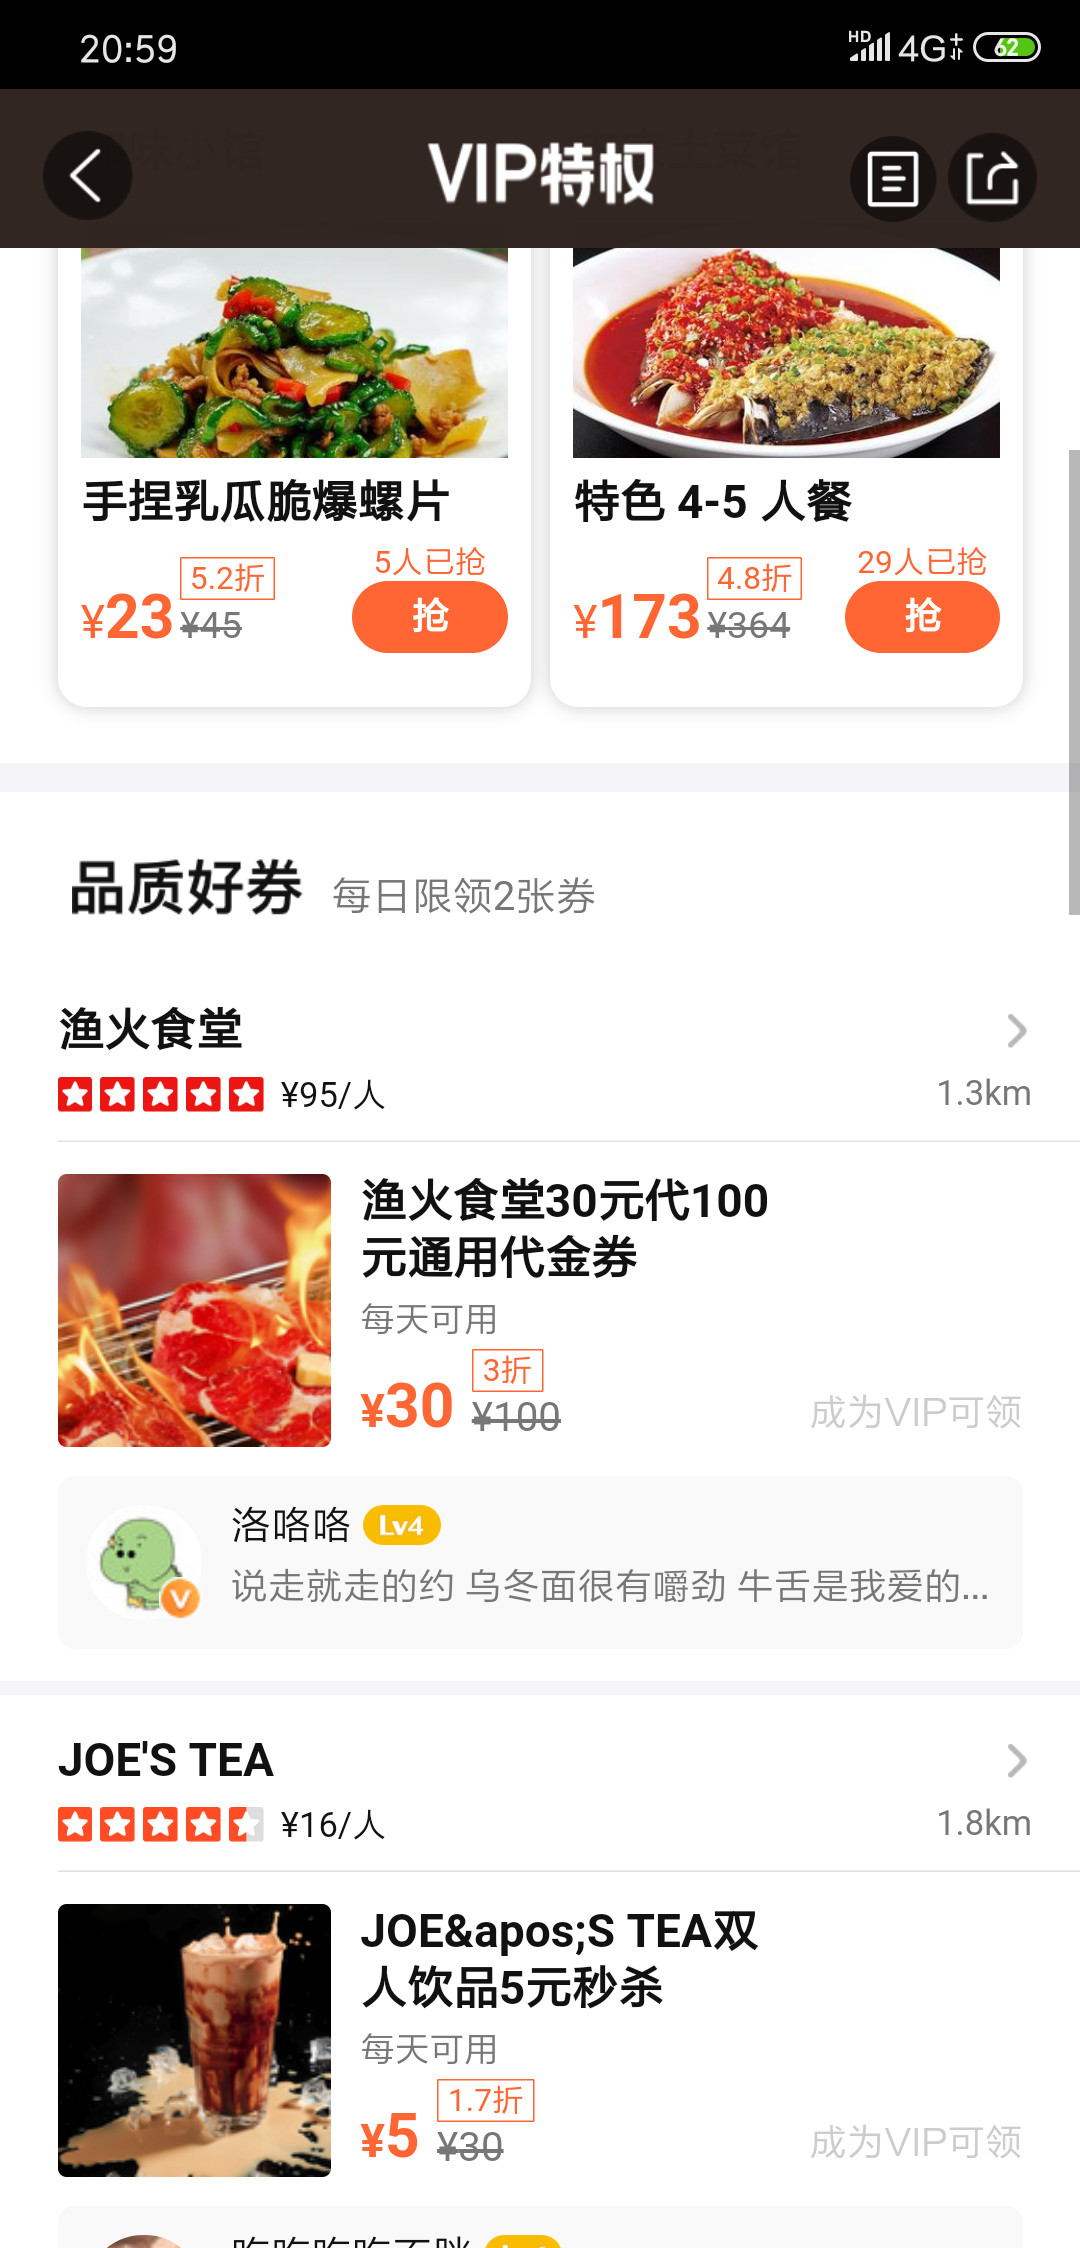
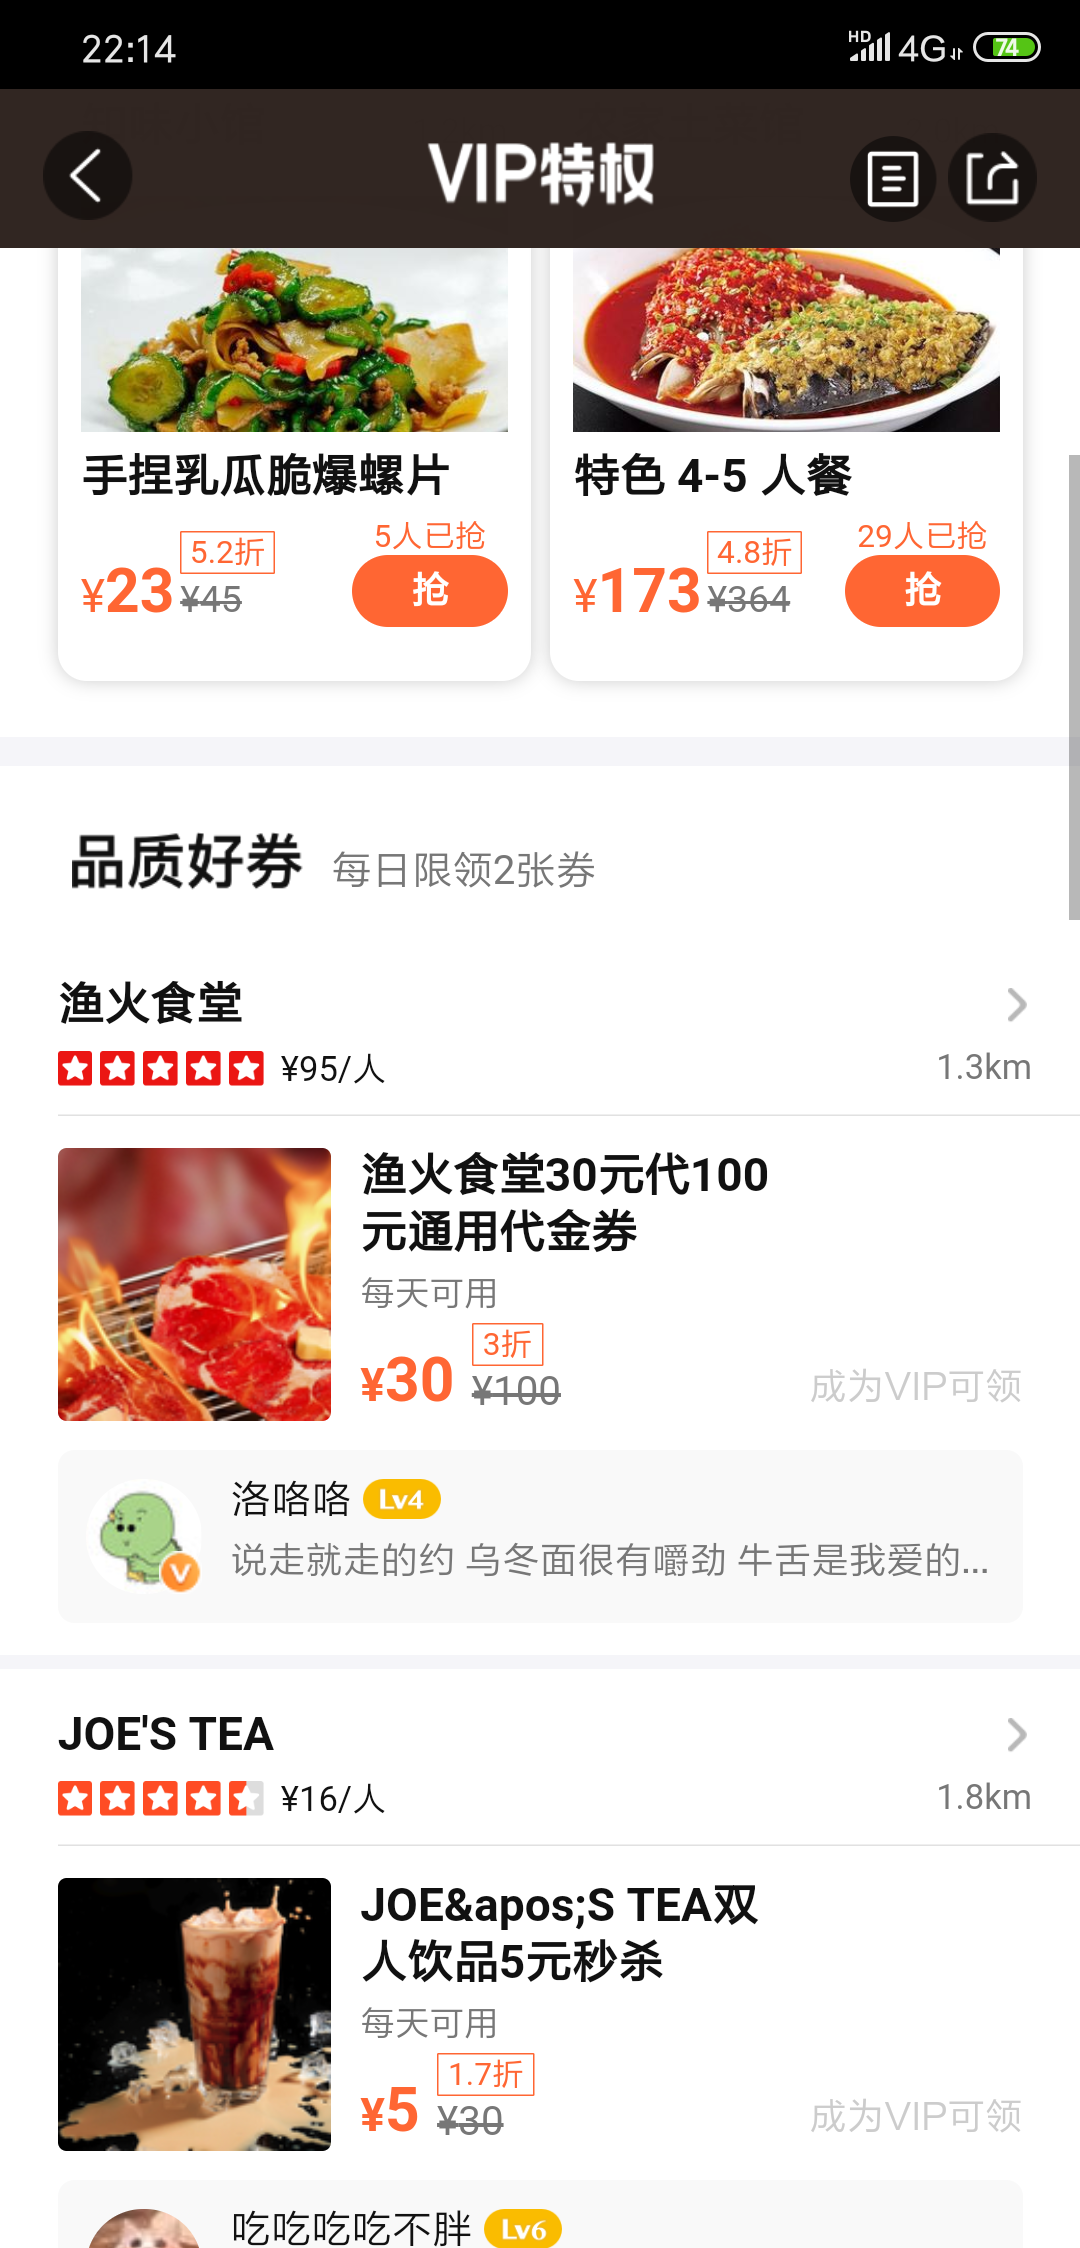
add adb test

diff --git a/src/adb_test.py b/src/adb_test.py
@@ -1,0 +1,5 @@
+# -*- coding: UTF-8 -*-
+
+import os
+
+os.system("../script/ADBScreenShot.sh")
